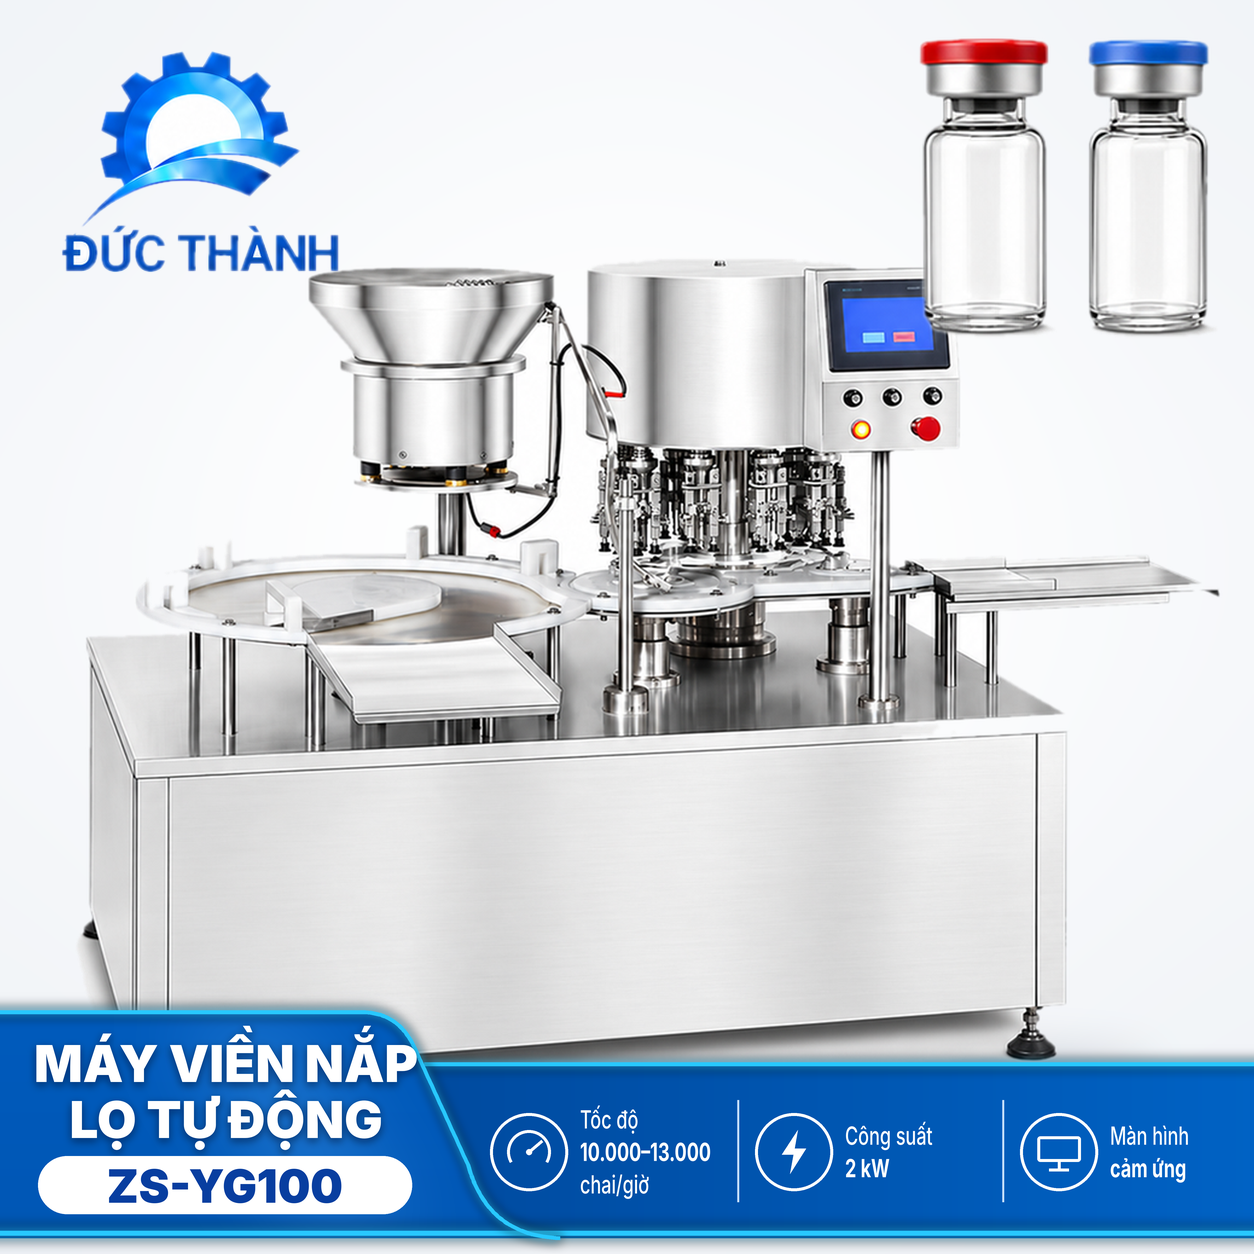
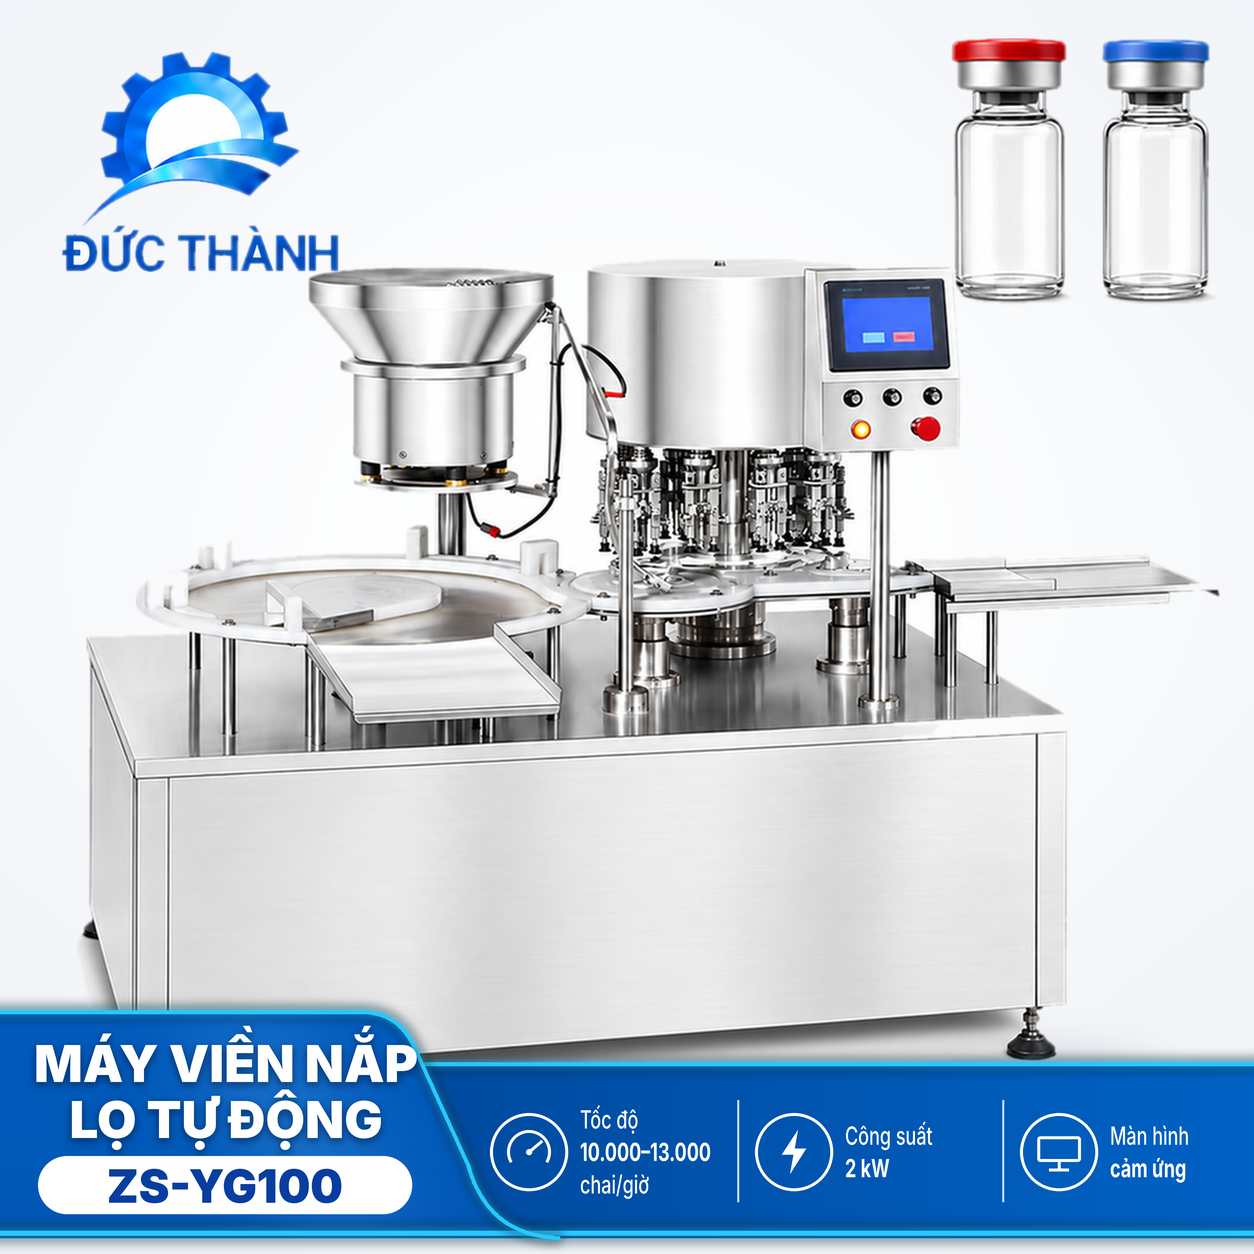
Gioi han kich thuoc may va anh minh hoa, lam lai anh may so 1
Claude-Session: https://claude.ai/code/session_01TEr8NLMYd2kpfrvyyx9ETd

Changed region(s): [[0.7153, 0.0311, 0.9641, 0.2799]]

diff --git a/_tools/lam_anh_may.py b/_tools/lam_anh_may.py
@@ -214,7 +214,7 @@ def build(a):
 
     # ---------- may: to, dat sat tren dai xanh ----------
     may = trim(cut_background(Image.open(a.may)))
-    may = fit(may, 1150, TOP_R - 190)
+    may = fit(may, 1150, TOP_R - 250)
     mx = (W - may.width) // 2 + 20
     my = TOP_R + 4 - may.height
     sh = Image.new("L", (W, H), 0)
@@ -317,7 +317,7 @@ def build(a):
     # ---------- minh hoa goc phai ----------
     if a.minh_hoa:
         mh = trim(cut_background(Image.open(a.minh_hoa)))
-        mh = fit(mh, 300, 330)
+        mh = fit(mh, 290, 270)
         img.alpha_composite(mh, (W - 36 - mh.width, 36))
 
     # ---------- logo ----------
